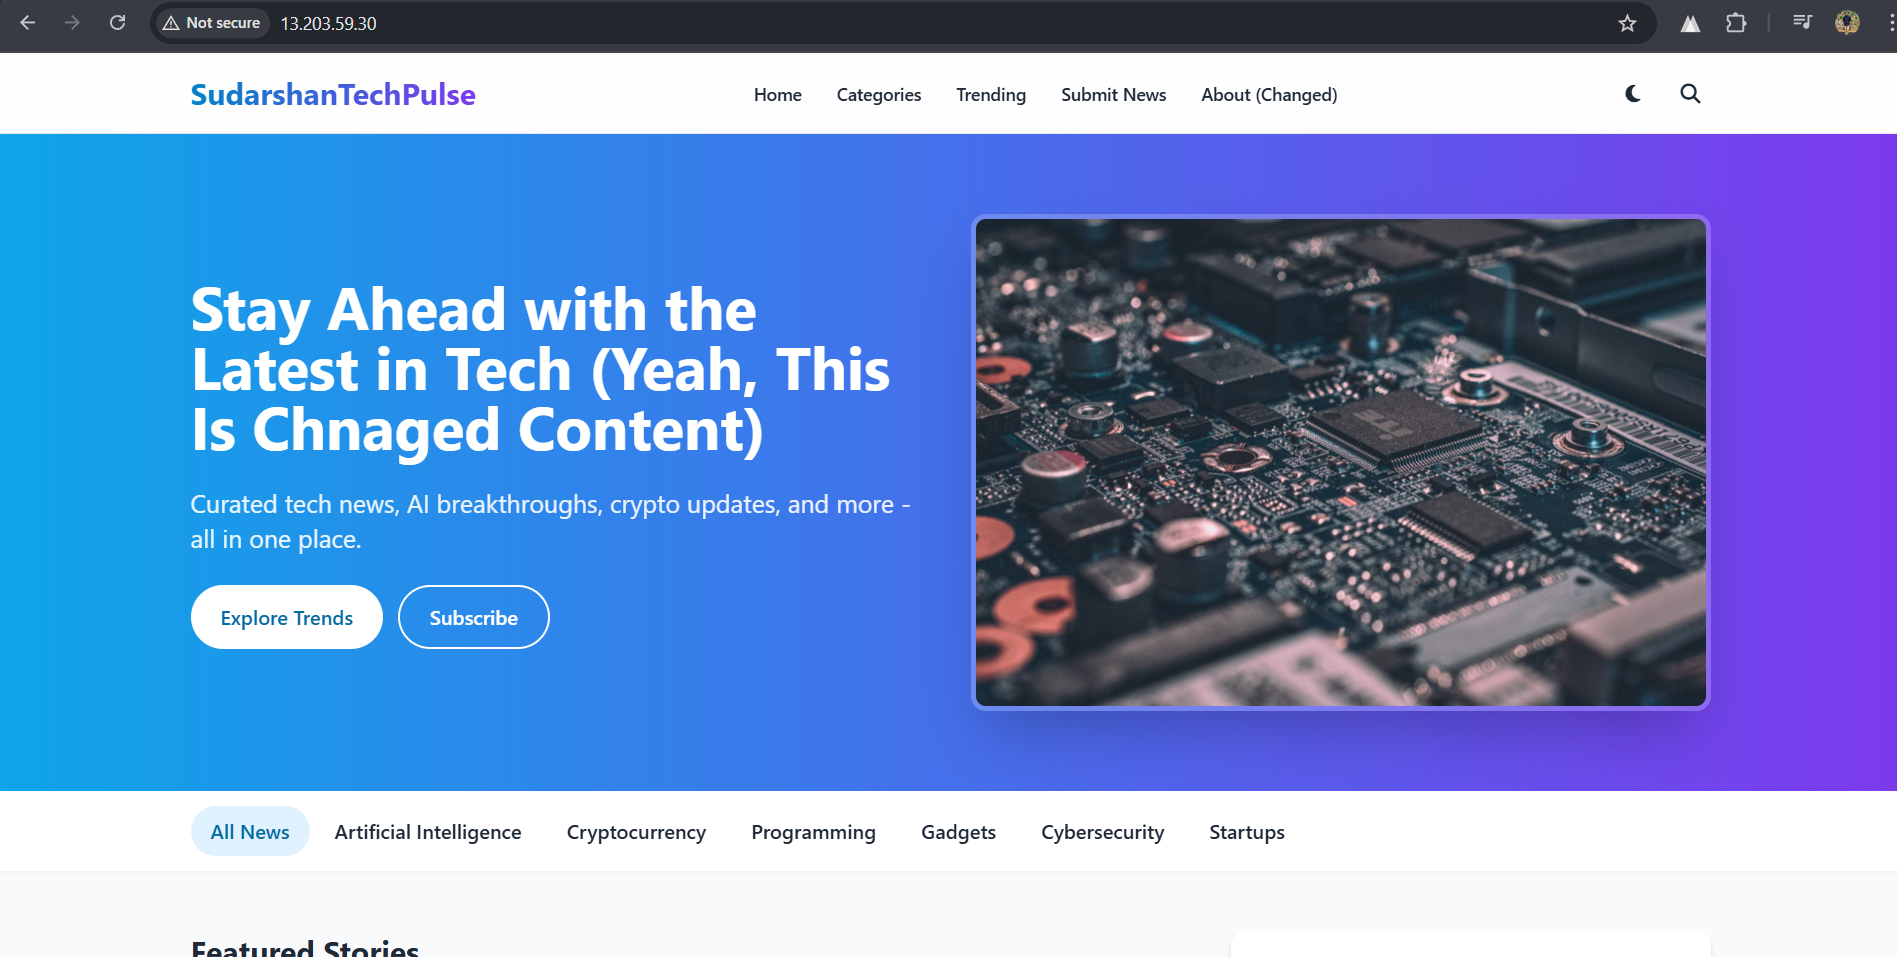
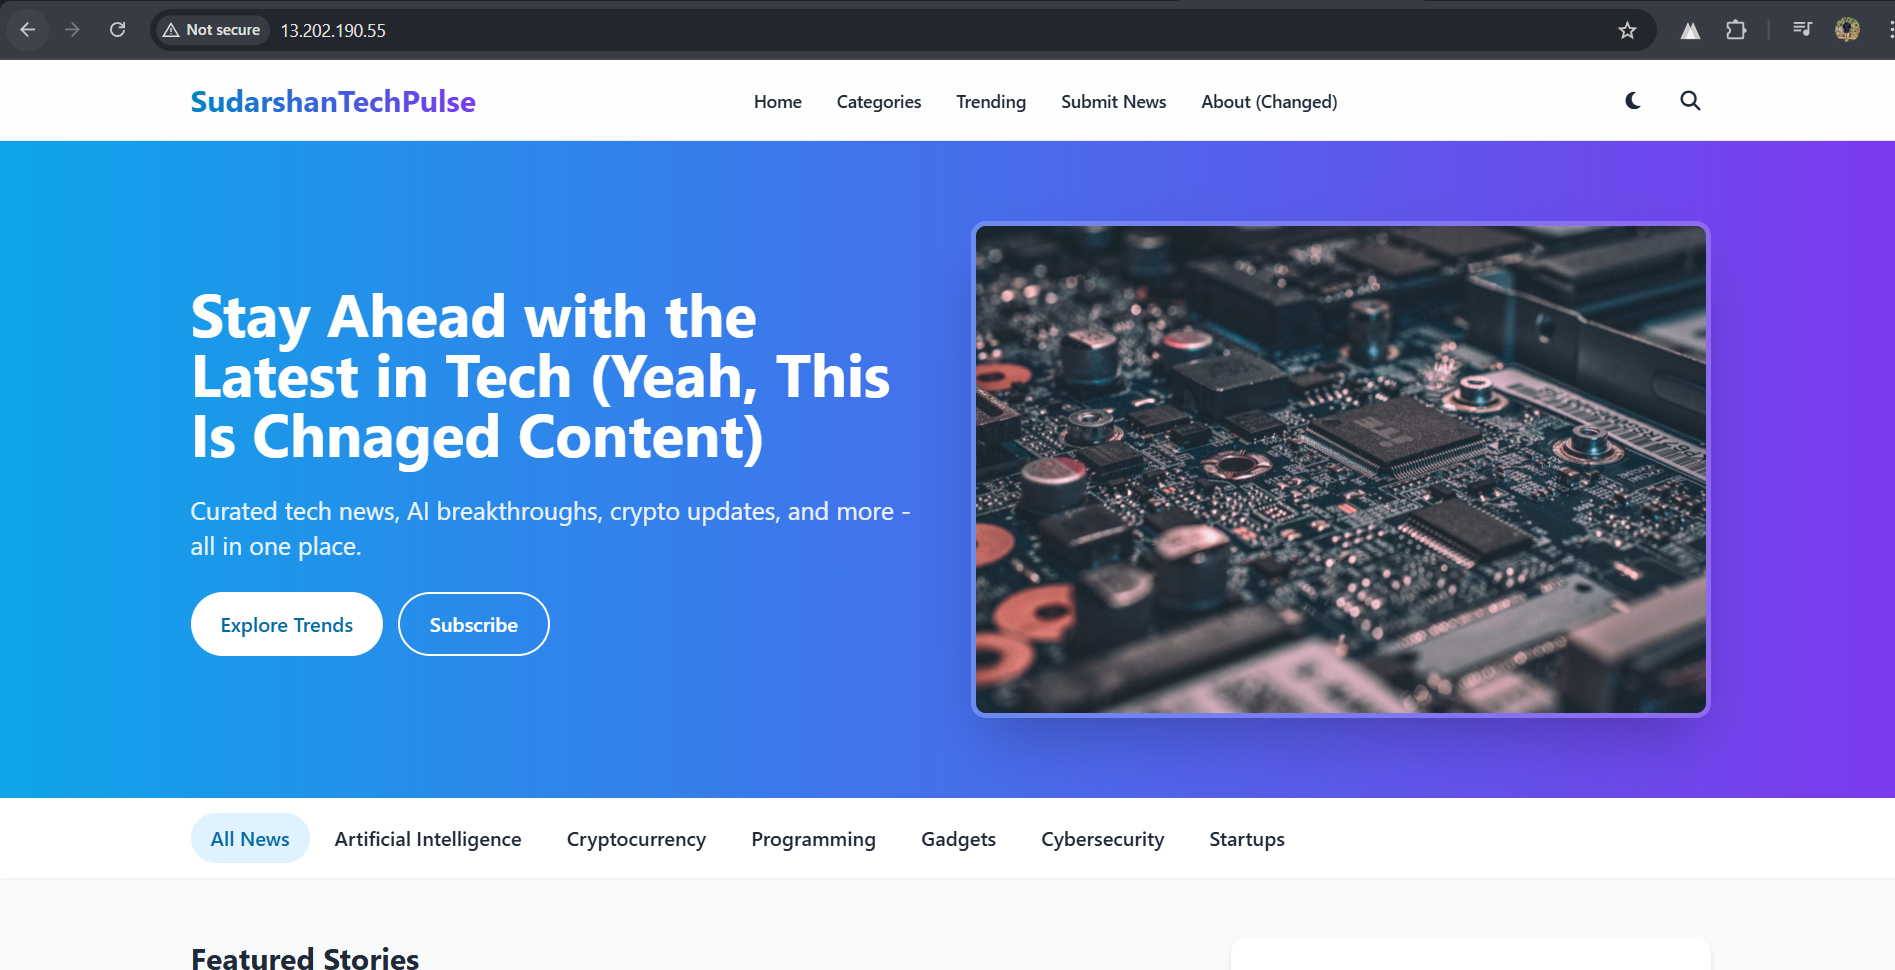
minor bug fixed

diff --git a/app/index.js b/app/index.js
@@ -19,7 +19,7 @@ app.get("/", (req, res) => {
 // API route (you can add more routes like this)
 app.get("/api/hello", (req, res) => {
   res.json({ 
-    message: "🚀 Hello from Dockerized Node.js App! by @Elone.rajeev",
+    message: "🚀 Hello from Dockerized Node.js App! by @Sudarshan Gawande",
     timestamp: new Date().toISOString()
   });
 });

diff --git a/README.md b/README.md
@@ -28,7 +28,7 @@ An **enterprise-grade cloud-native automation setup** featuring:
 - ✅ Dockerized Node.js microservice
 - ✅ End-to-end monitoring with Prometheus & Grafana
 
-🔗 [🔥 Live Demo](http://13.203.59.30) • [📖 Documentation](#-table-of-contents) • [🛠 Quick Start](#-quick-start) • [💼 Portfolio](https://sudarshangawande.com)
+🔗 [🔥 Live Demo](http://13.202.190.55) • [📖 Documentation](#-table-of-contents) • [🛠 Quick Start](#-quick-start) • [💼 Portfolio](https://sudarshangawande.com)
 
 ---
 
@@ -282,9 +282,9 @@ CMD ["node", "index.js"]
 ```bash
 #!/bin/bash
 # Deployed via GitHub Actions
-docker pull elonerajeev/infra-app:latest
+docker pull sudarshangawande/infra-app:latest
 docker stop app-container || true
-docker run -d --name app-container -p 80:3000 elonerajeev/infra-app:latest
+docker run -d --name app-container -p 80:3000 sudarshangawande/infra-app:latest
 ```
 
 ---
